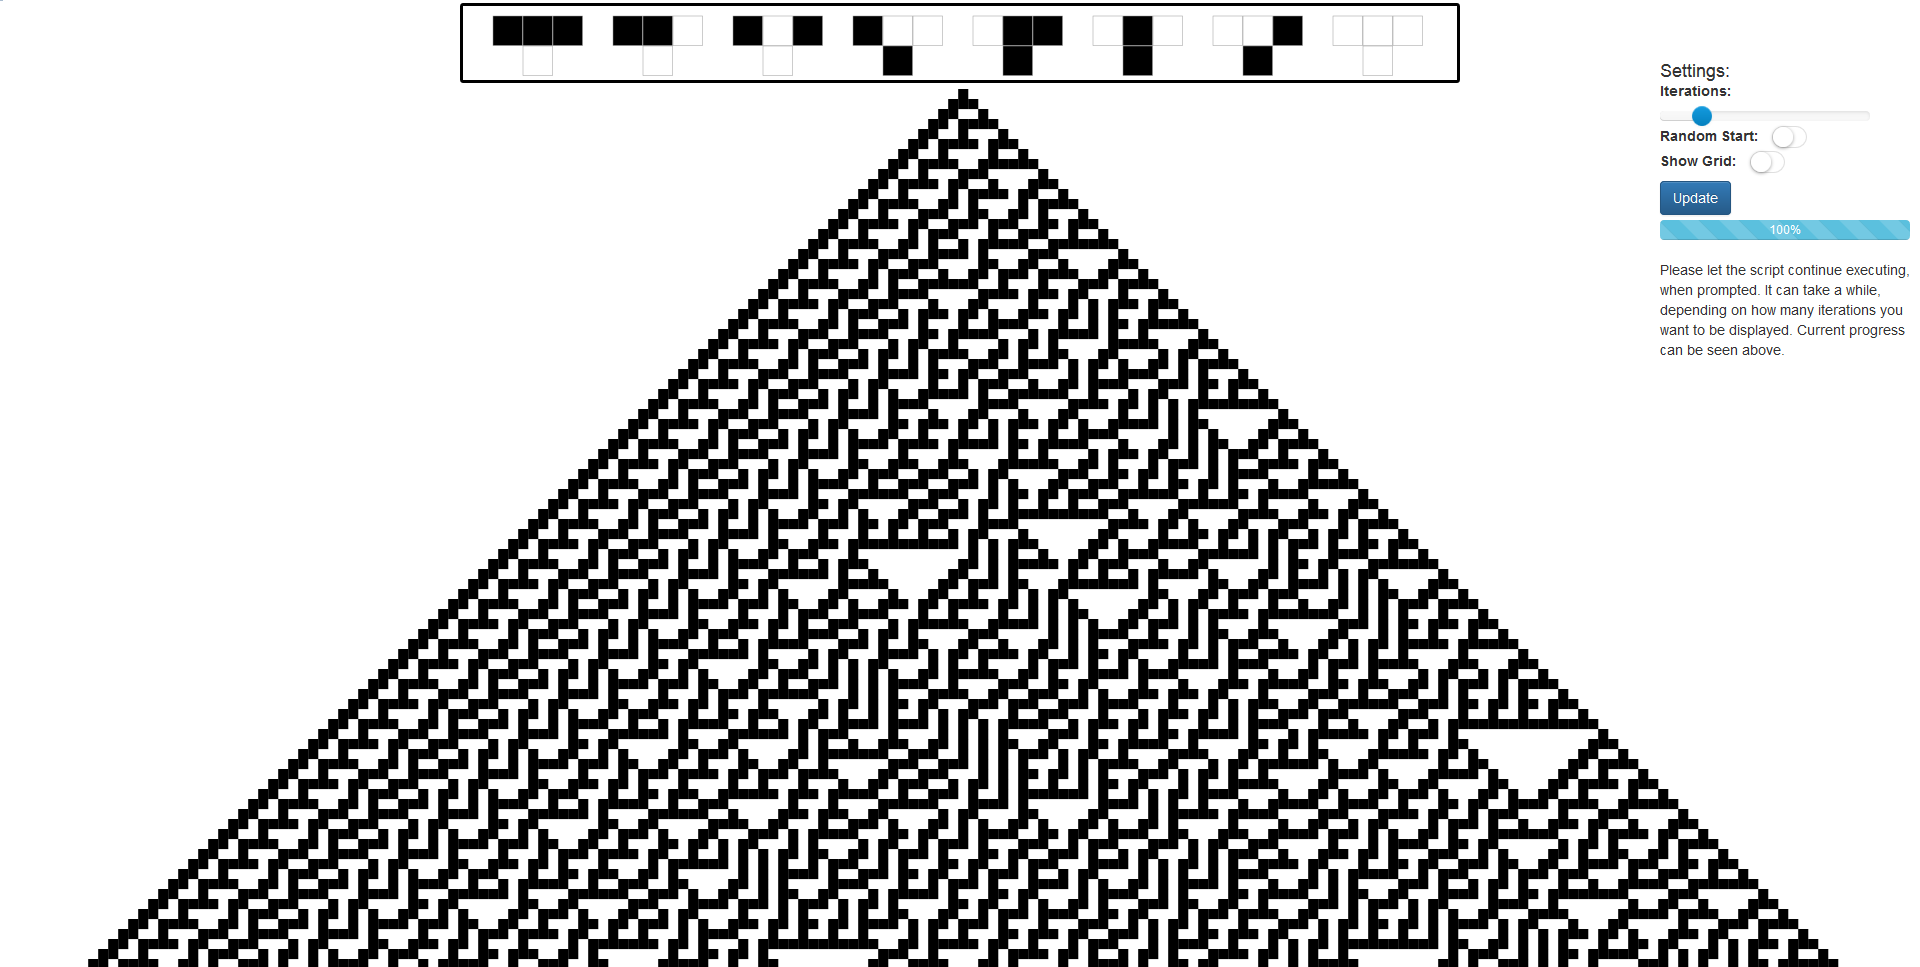
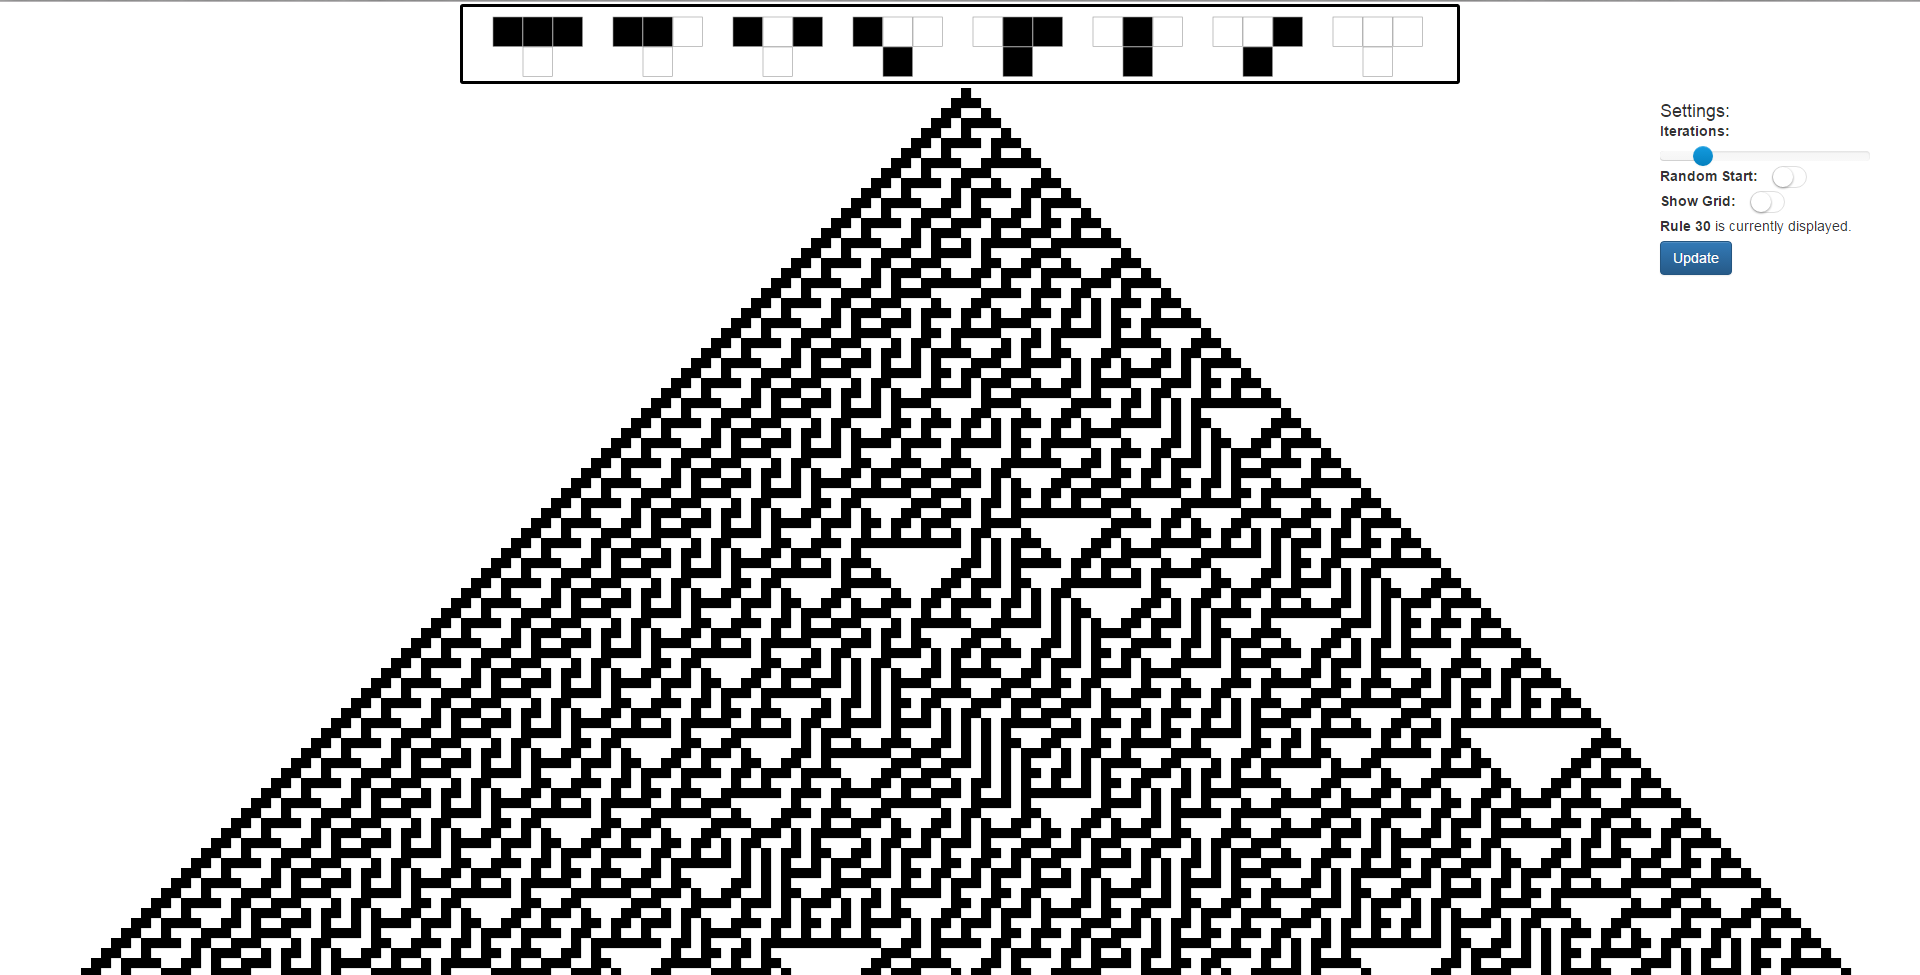
Screenshot added to ReadMe

Changed region(s): [[0.0312, 0.0931, 0.9688, 1.0], [0.8438, 0.062, 1.0, 0.3723], [0.25, 0.0, 0.75, 0.031]]

diff --git a/README.md b/README.md
@@ -9,3 +9,8 @@ This is a little web project with Javascript and D3.js. When ready it will be po
 
 ## Warning
 I have to admit that because of the way the algorithm is currently implemented, it may in some cases produce slightly incorrect results at the left and right margins, especially the left one.
+
+## Screenshot
+![alt text][logo]
+
+[logo]: https://frankenapps.github.io/CellularAutomata/screenshots/Rule30_non_random_without_grid.png "Rule 30"
